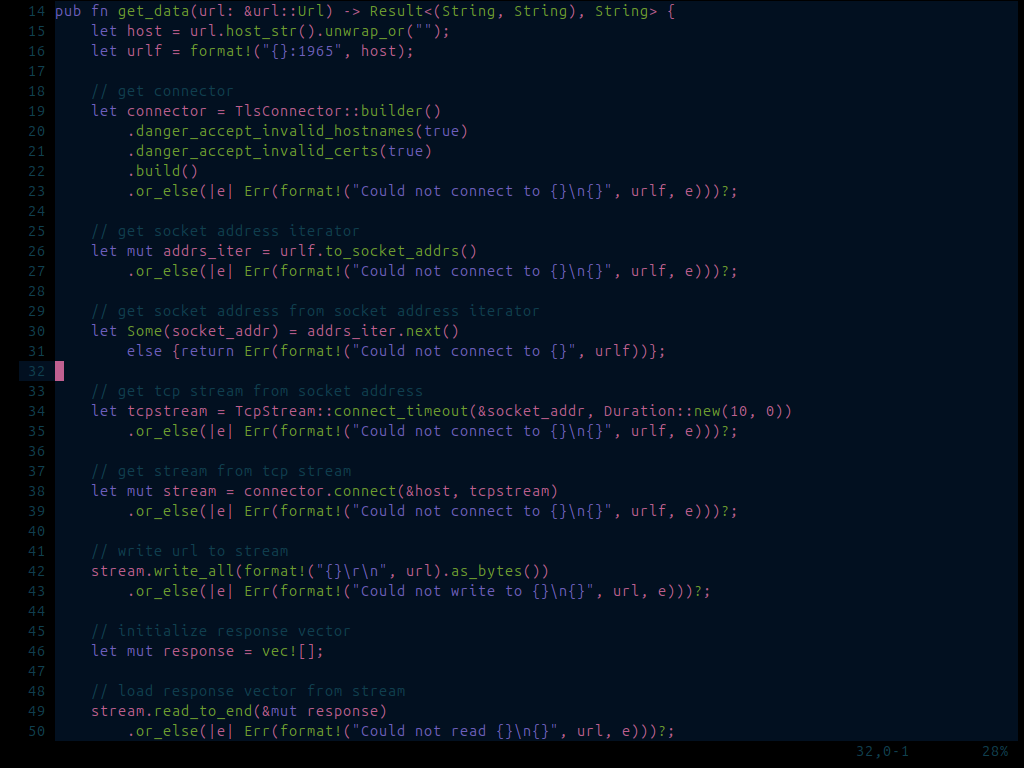
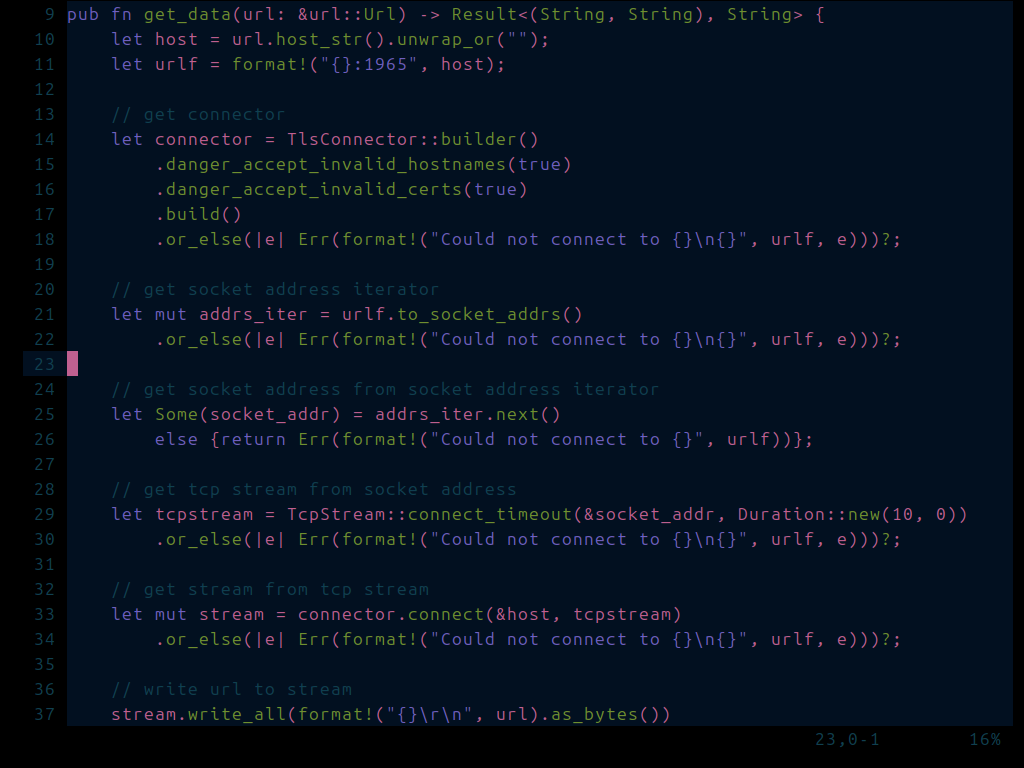
docs and day

diff --git a/readme.md b/readme.md
@@ -8,14 +8,17 @@ to use the colorschemes, copy the following heirarchies into your nvim config di
 - queries
 - parser
 
-### cyan colorscheme
+### day colorscheme (super bright)
+![day](docs/day.png)  
+
+### cyan colorscheme (acidic)
 ![cyan](docs/cyan.png)  
 
-### green colorscheme
+### green colorscheme (minigolf)
 ![green](docs/green.png)  
 
-### blue colorscheme
+### blue colorscheme (dark blueberries and bright grapes)
 ![blue](docs/blue.png)  
 
-### moss colorscheme
+### moss colorscheme (oldie)
 ![moss](docs/moss.png)  
